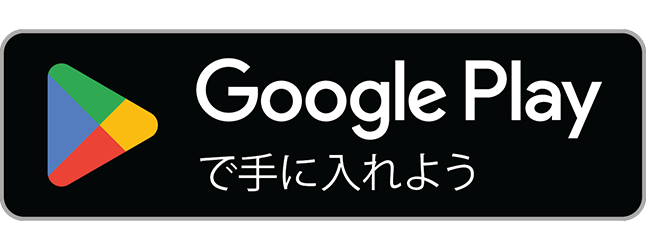
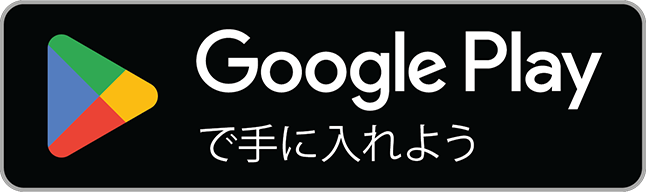
カードゲームページ: Google Playバッジの透明余白を切り落とし、App Storeバッジと同じ高さ60pxに統一

diff --git a/game.html b/game.html
@@ -113,7 +113,7 @@
       <p class="lead">サルベドのキャラクターたちが活躍するオンライン対戦カードゲーム。<br>スマホアプリ「サルベド漫画カードゲーム」で、無料で遊べます。</p>
       <div class="store-badges" style="display:flex;justify-content:center;align-items:center;gap:18px;flex-wrap:wrap;margin:22px 0 6px;">
         <a href="https://apps.apple.com/jp/app/id6790535117" target="_blank" rel="noopener noreferrer" aria-label="App Storeからダウンロード" style="display:inline-block;line-height:0;"><img src="img/badge-app-store.svg" alt="App Storeからダウンロード" style="height:60px;width:auto;display:block;"></a>
-        <a href="https://play.google.com/store/apps/details?id=jp.sarubedo.tcg" target="_blank" rel="noopener noreferrer" aria-label="Google Playで手に入れよう" style="display:inline-block;line-height:0;"><img src="img/badge-google-play.png" alt="Google Playで手に入れよう" style="height:88px;width:auto;display:block;"></a>
+        <a href="https://play.google.com/store/apps/details?id=jp.sarubedo.tcg" target="_blank" rel="noopener noreferrer" aria-label="Google Playで手に入れよう" style="display:inline-block;line-height:0;"><img src="img/badge-google-play.png" alt="Google Playで手に入れよう" style="height:60px;width:auto;display:block;"></a>
       </div>
       <p style="margin:6px 0 0;font-size:12px;color:#777;line-height:1.8;">iPhone / iPad は App Store、Android は Google Play からインストールできます。</p>
     </div>
